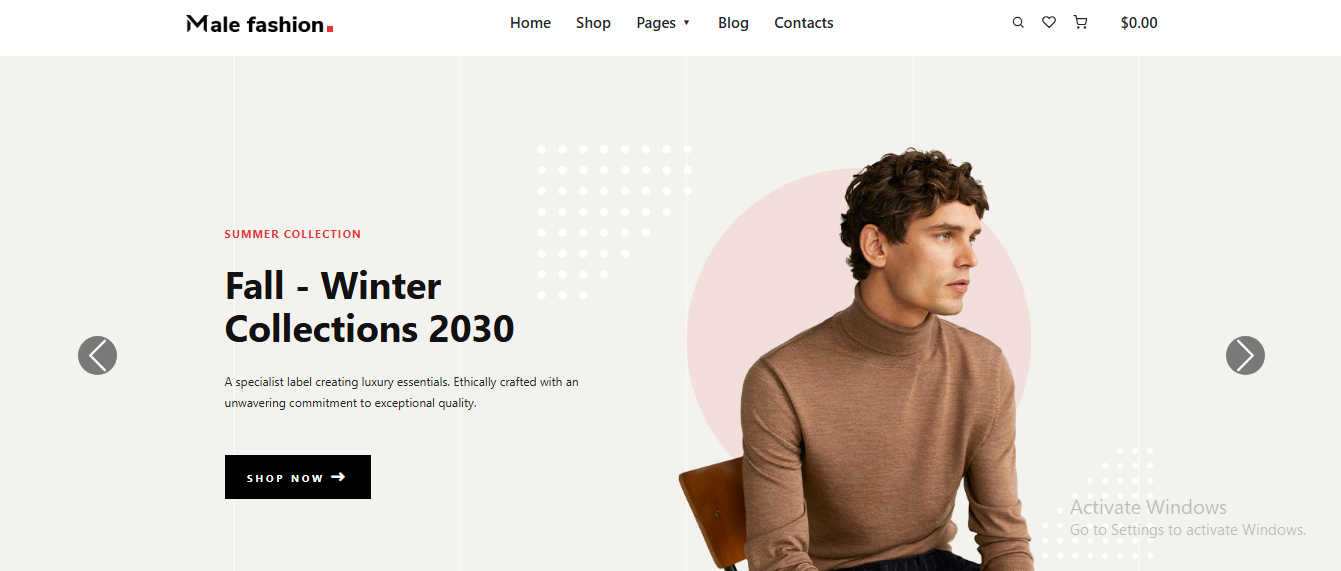
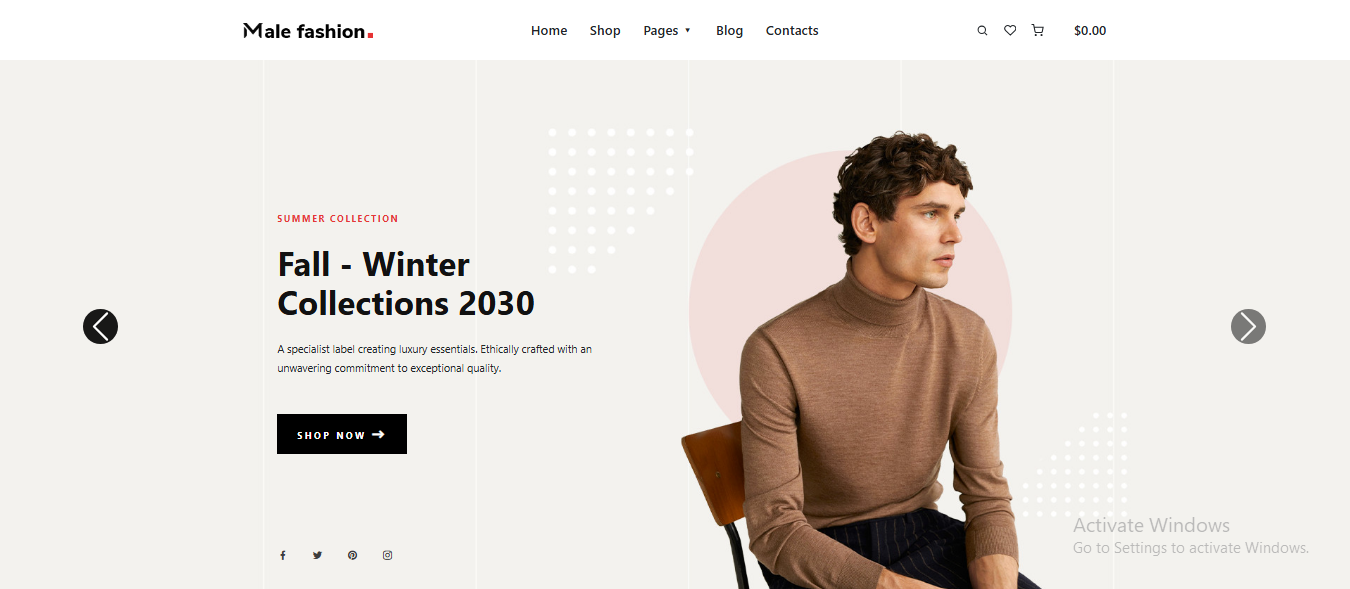
changes updated

diff --git a/index.html b/index.html
@@ -473,7 +473,7 @@
         <div class="col-md-6 col-lg-4">
 
           <div class="card border-0 shadow-sm h-100">
-            <img src="images/Male-fashion-1.png" class="card-img-top" alt="Project">
+            <img src="images/male-fashion.png" class="card-img-top" alt="Project">
             <div class="card-body">
 
               <h5 class="card-title" style="font-family: Merienda, cursive; font-size: 16px; font-weight: 600;">E-commerce website</h5>
